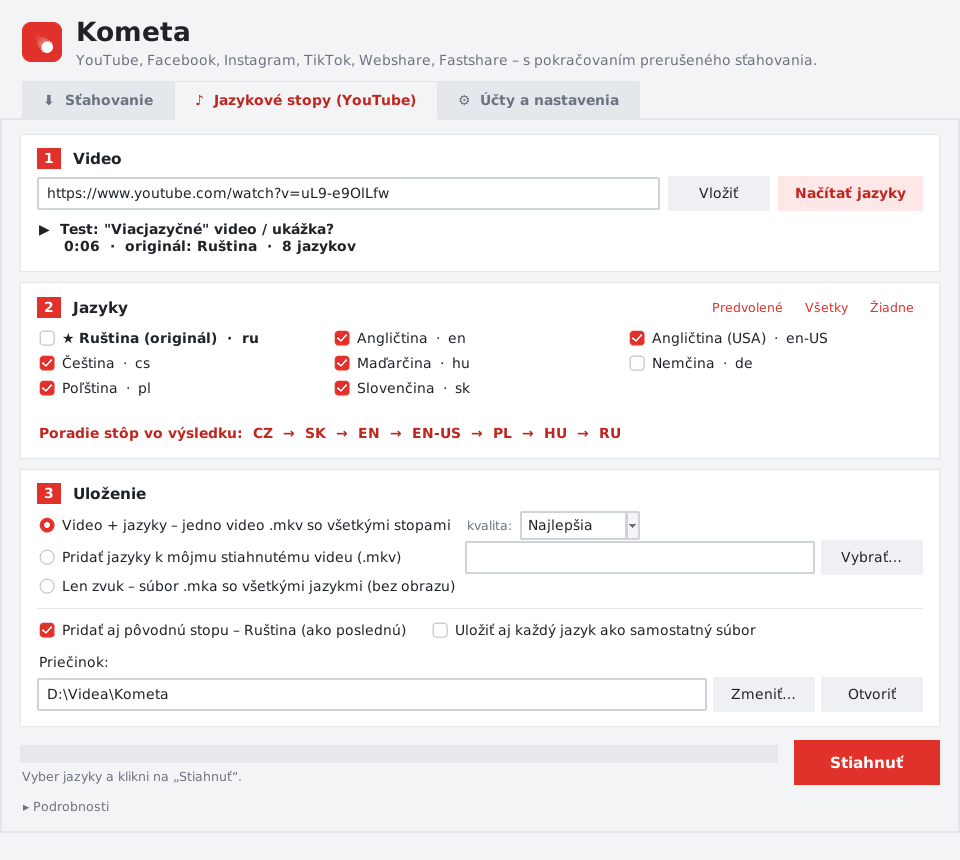
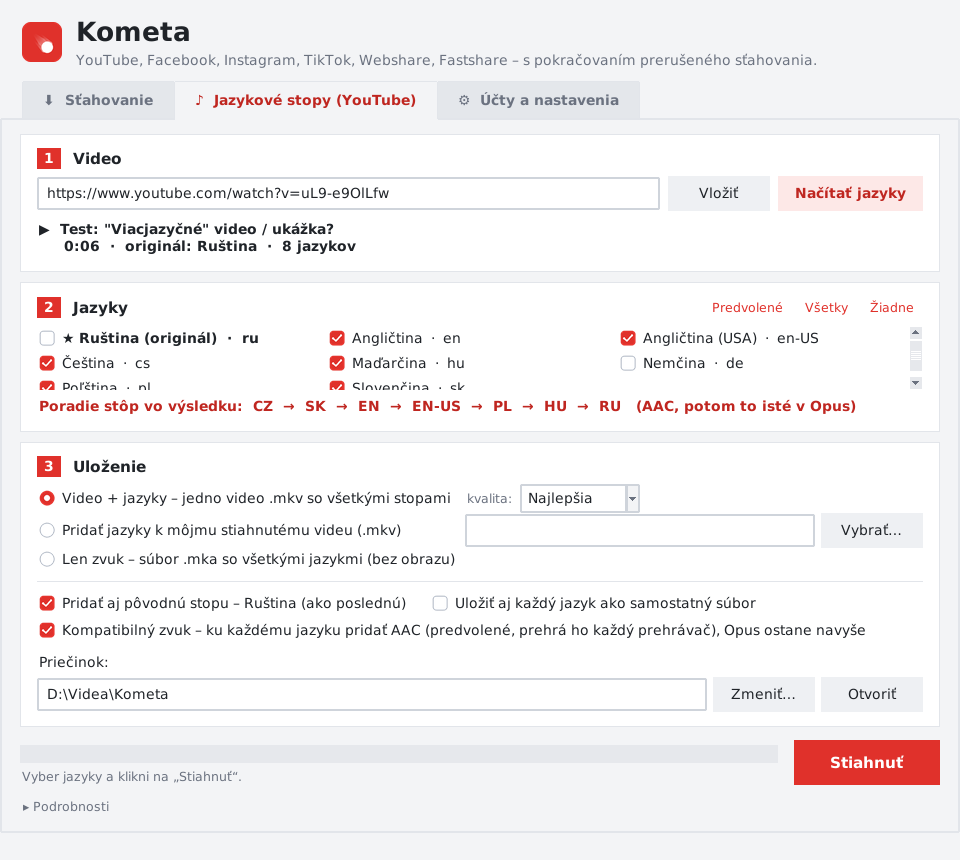
Kometa 1.3: kompatibilný zvuk – AAC (predvolená) + Opus v jednom MKV, dá sa vypnúť
- Jazykové stopy: ku každému jazyku AAC stopa (bez prevodu, ak ju YouTube ponúka,
  inak prevod z Opus cez FFmpeg), za nimi tie isté jazyky v Opus
- Prepínač v karte Jazykové stopy aj v Nastaveniach; platí aj pre bežné sťahovanie z YouTube
- CLI: py app.py jazyky ODKAZ --zvuk oboje|aac|opus

Claude-Session: https://claude.ai/code/session_017Q8iHM1R7hGANfK1WZZvSf

diff --git a/kometa/jazyky.py b/kometa/jazyky.py
@@ -112,6 +112,14 @@ def _format_rank(f: dict):
     )
 
 
+def _is_aac(f: dict) -> bool:
+    return str(f.get("acodec", "")).startswith("mp4a") or (f.get("ext") == "m4a")
+
+
+AUDIO_MODES = {"oboje": "AAC + Opus v jednom súbore (odporúčané)", "aac": "Len AAC – prehrá každý prehrávač",
+               "opus": "Len Opus – najvyššia kvalita"}
+
+
 def _clean_display(note: str) -> str:
     first = (note or "").split(",")[0]
     first = re.sub(r"\((default|original)\)|\boriginal\b", "", first, flags=re.I)
@@ -128,6 +136,8 @@ def list_audio_tracks(info: dict) -> list[dict]:
     tracks = []
     for code, fmts in groups.items():
         best = max(fmts, key=_format_rank)
+        aac = [x for x in fmts if _is_aac(x)]
+        opus = [x for x in fmts if str(x.get("acodec", "")).startswith("opus")]
         original = any(
             x.get("language_preference") == 10 or "original" in (x.get("format_note") or "").lower()
             for x in fmts
@@ -136,6 +146,8 @@ def list_audio_tracks(info: dict) -> list[dict]:
             "code": code,
             "label": lang_label(code, _clean_display(best.get("format_note"))),
             "format": best,
+            "aac": max(aac, key=_format_rank) if aac else None,     # prehrá každý prehrávač
+            "opus": max(opus, key=_format_rank) if opus else None,  # vyššia kvalita
             "original": original,
             "_pref": max((x.get("language_preference") or -1) for x in fmts),
         })
@@ -264,6 +276,16 @@ def mux(out_path: Path, inputs: list[dict], title: str) -> None:
         raise RuntimeError("FFmpeg nedokázal spojiť stopy:\n" + (r.stderr or "").strip()[-1500:])
 
 
+def to_aac(src: Path, dest: Path, bitrate: str = "192k") -> Path:
+    """Prevedie zvuk do AAC (prehrá ho každý prehrávač) – len keď ho zdroj neponúka priamo."""
+    r = subprocess.run([_ffmpeg(), "-hide_banner", "-loglevel", "error", "-y", "-i", str(src), "-vn", "-map", "0:a:0",
+                        "-c:a", "aac", "-b:a", bitrate, str(dest)],
+                       capture_output=True, text=True, encoding="utf-8", errors="replace", **NO_WINDOW)
+    if r.returncode != 0 or not dest.exists():
+        raise RuntimeError("Prevod zvuku do AAC zlyhal:\n" + (r.stderr or "").strip()[-800:])
+    return dest
+
+
 def _export_single(src: Path, dest_stem: Path) -> Path:
     """Samostatná stopa: opus z webm prebalí do .opus (bez prekódovania), ostatné nechá."""
     if src.suffix.lower() == ".webm":
@@ -302,12 +324,15 @@ def run_job(job: dict, log=print, progress=lambda frac, text: None, cancel: thre
     if existing is not None and not existing.is_file():
         raise RuntimeError("Vybrané video na disku neexistuje.")
 
-    total_steps = len(tracks) + (1 if mode == "video" else 0) + 1
+    audio_mode = job.get("audio_mode") or "oboje"
+    if audio_mode not in AUDIO_MODES:
+        audio_mode = "oboje"
+    total_steps = len(tracks) * (2 if audio_mode == "oboje" else 1) + (1 if mode == "video" else 0) + 1
     state = {"step": 0, "text": ""}
 
     def sub(frac):
         base = state["step"] + (frac if frac is not None else 0)
-        progress(base / total_steps, state["text"])
+        progress(min(base / total_steps, 1.0), state["text"])
 
     tmp = Path(tempfile.mkdtemp(prefix=".ytj_tmp_", dir=outdir))
     try:
@@ -321,16 +346,36 @@ def run_job(job: dict, log=print, progress=lambda frac, text: None, cancel: thre
             video_path = download_format(info, fmt, tmp / "video", log, sub, cancel)
             state["step"] += 1
 
-        files = []
+        def fetch(t, fmt, n, kind):
+            stem = tmp / ("a%02d_%s_%s" % (n, re.sub(r"[^\w-]", "_", t["code"] or "orig"), kind))
+            return download_format(info, fmt["format_id"], stem, log, sub, cancel)
+
+        files = []        # hlavné stopy (AAC alebo Opus podľa režimu) – v poradí jazykov
+        extra = []        # druhé stopy (Opus pri režime „oboje“)
         for n, t in enumerate(tracks, 1):
             if cancel.is_set():
                 raise Cancelled()
             state["text"] = f"Sťahujem: {t['label']} ({n}/{len(tracks)})…"
             log(f"⬇ {t['label']}  [{t['code'] or '—'}]")
             sub(0)
-            stem = tmp / ("a%02d_%s" % (n, re.sub(r"[^\w-]", "_", t["code"] or "orig")))
-            files.append((t, download_format(info, t["format"]["format_id"], stem, log, sub, cancel)))
+            aac_fmt, opus_fmt = t.get("aac"), t.get("opus") or t["format"]
+            if audio_mode == "opus":
+                files.append((t, fetch(t, opus_fmt, n, "opus"), "opus"))
+                state["step"] += 1
+                continue
+            opus_path = None
+            if aac_fmt:
+                main = fetch(t, aac_fmt, n, "aac")
+            else:  # zdroj AAC neponúka → prevedieme z Opus
+                opus_path = fetch(t, opus_fmt, n, "opus")
+                log(f"↻ Prevádzam {t['label']} do AAC (zdroj ho neponúka)…")
+                main = to_aac(opus_path, tmp / ("a%02d_aac.m4a" % n))
+            files.append((t, main, "aac"))
             state["step"] += 1
+            if audio_mode == "oboje" and t.get("opus"):
+                sub(0)
+                extra.append((t, opus_path or fetch(t, t["opus"], n, "opus"), "opus"))
+            state["step"] += 1 if audio_mode == "oboje" else 0
 
         if cancel.is_set():
             raise Cancelled()
@@ -338,7 +383,7 @@ def run_job(job: dict, log=print, progress=lambda frac, text: None, cancel: thre
         log("⇒ Spájam stopy…")
         sub(0)
 
-        codes = [t["code"] or "orig" for t, _ in files]
+        codes = [t["code"] or "orig" for t, _, _ in files]
         tag = "+".join(codes) if len(codes) <= 8 else f"{len(codes)} jazykov"
         inputs: list[dict] = []
         if mode == "existing":
@@ -351,13 +396,15 @@ def run_job(job: dict, log=print, progress=lambda frac, text: None, cancel: thre
             out = unique_path(outdir / f"{safe_name(title)} [{tag}].mkv")
         else:
             out = unique_path(outdir / f"{safe_name(title)} [{tag}].mka")
-        for t, p in files:
+        # najprv AAC v poradí jazykov (prvá = predvolená, prehrá ju každý prehrávač), potom tie isté jazyky v Opus
+        for t, p, codec in files + extra:
+            suffix = " – Opus (vyššia kvalita)" if (codec == "opus" and audio_mode == "oboje") else ""
             inputs.append({"path": p, "kind": "audio", "lang3": iso3(t["code"]),
-                           "title": t["label"] + (" – originál" if t["original"] else "")})
+                           "title": t["label"] + (" – originál" if t["original"] else "") + suffix})
         mux(out, inputs, title)
 
         if job.get("keep_separate"):
-            for t, p in files:
+            for t, p, _ in files:
                 single = _export_single(p, outdir / f"{safe_name(title)} [{t['code'] or 'orig'}]")
                 log(f"   ↳ {single.name}")
 
@@ -393,6 +440,9 @@ def cli(argv: list[str]) -> int:
     ap.add_argument("--bez-originalu", action="store_true", help="nepridá pôvodnú stopu (inak je posledná)")
     ap.add_argument("--samostatne", action="store_true", help="uloží aj každý jazyk ako samostatný súbor")
     ap.add_argument("--max-vyska", type=int, metavar="PX", help="max. výška videa, napr. 1080")
+    ap.add_argument("--zvuk", choices=list(AUDIO_MODES), default=None,
+                    help="oboje = AAC (predvolená, prehrá každý prehrávač) + Opus; aac = len AAC; opus = len Opus "
+                         "(predvolené podľa nastavenia, inak oboje)")
     a = ap.parse_args(argv)
 
     deps = check_dependencies()
@@ -420,7 +470,8 @@ def cli(argv: list[str]) -> int:
     mode = "existing" if a.k_videu else ("audio" if a.len_zvuk else "video")
     job = {"info": info, "tracks": chosen, "outdir": a.vystup or cfg["outdir"], "mode": mode,
            "existing_path": a.k_videu, "include_original": not a.bez_originalu,
-           "keep_separate": a.samostatne, "max_height": a.max_vyska}
+           "keep_separate": a.samostatne, "max_height": a.max_vyska,
+           "audio_mode": a.zvuk or cfg.get("audio_mode", "oboje")}
 
     def progress(frac, text):
         bar = "█" * int(frac * 30)

diff --git a/kometa/gui.py b/kometa/gui.py
@@ -303,10 +303,13 @@ class LanguagesTab:
         self.sep_var = tk.BooleanVar(value=self.cfg.get("keep_separate", False))
         ttk.Checkbutton(opts, text="Uložiť aj každý jazyk ako samostatný súbor",
                         variable=self.sep_var).pack(side="left", padx=(22, 0))
+        ttk.Checkbutton(b3, text="Kompatibilný zvuk – ku každému jazyku pridať AAC (predvolené, prehrá ho každý "
+                                 "prehrávač), Opus ostane navyše", variable=self.win.compat_var,
+                        command=self._set_go_state).grid(row=5, column=0, columnspan=4, sticky="w", pady=(4, 0))
 
-        ttk.Label(b3, text="Priečinok:", style="Card.TLabel").grid(row=5, column=0, sticky="w", pady=(10, 0))
+        ttk.Label(b3, text="Priečinok:", style="Card.TLabel").grid(row=6, column=0, sticky="w", pady=(10, 0))
         dbox = ttk.Frame(b3, style="Card.TFrame")
-        dbox.grid(row=6, column=0, columnspan=4, sticky="ew", pady=(4, 0))
+        dbox.grid(row=7, column=0, columnspan=4, sticky="ew", pady=(4, 0))
         self.outdir_var = self.win.outdir_var
         self.outdir_entry = ttk.Entry(dbox, textvariable=self.outdir_var)
         self.outdir_entry.pack(side="left", fill="x", expand=True)
@@ -495,6 +498,7 @@ class LanguagesTab:
         job = {"info": self.info, "tracks": tracks, "outdir": outdir, "mode": mode,
                "existing_path": self.existing_var.get().strip(), "include_original": self.orig_var.get(),
                "keep_separate": self.sep_var.get(),
+               "audio_mode": "oboje" if self.win.compat_var.get() else "opus",
                "max_height": int(q[:-1]) if q.endswith("p") and q[:-1].isdigit() else None}
         self.cancel = threading.Event()
         self._busy(True)
@@ -550,8 +554,10 @@ class LanguagesTab:
         if self.orig_var.get() and orig and orig not in order:
             order.append(orig)
         short = lambda t: {"cs": "CZ"}.get(t["code"].lower(), (t["code"] or "orig").upper())
-        self.order_var.set("Poradie stôp vo výsledku:  " + "  →  ".join(short(t) for t in order) if order
-                           else "Nie je vybraný žiadny jazyk.")
+        text = "Poradie stôp vo výsledku:  " + "  →  ".join(short(t) for t in order)
+        if order and self.win.compat_var.get():
+            text += "   (AAC, potom to isté v Opus)"
+        self.order_var.set(text if order else "Nie je vybraný žiadny jazyk.")
 
     def _set_go_state(self):
         self._update_order()
@@ -1339,6 +1345,8 @@ class AccountsTab:
         sp2.bind("<FocusOut>", lambda e: self._save_settings())
         ttk.Label(r, text="(rýchlejšie veľké súbory a streamy)", style="Muted.Card.TLabel").pack(side="left")
 
+        ttk.Checkbutton(body, text="Kompatibilný zvuk vo videách – AAC (predvolené, prehrá každý prehrávač) + Opus "
+                                   "v jednom MKV", variable=self.win.compat_var).pack(anchor="w", pady=(8, 0))
         self.auto_var = tk.BooleanVar(value=bool(self.cfg.get("autoresume", True)))
         ttk.Checkbutton(body, text="Po spustení programu automaticky pokračovať v nedokončených sťahovaniach",
                         variable=self.auto_var, command=self._save_settings).pack(anchor="w", pady=(8, 0))
@@ -1494,6 +1502,8 @@ class MainWindow:
                                 log=lambda m: None)
         self.outdir_var = tk.StringVar(value=self.cfg.get("outdir") or str(default_outdir()))
         self.outdir_var.trace_add("write", lambda *_: self._outdir_changed())
+        self.compat_var = tk.BooleanVar(value=self.cfg.get("audio_mode", "oboje") != "opus")
+        self.compat_var.trace_add("write", lambda *_: self._compat_changed())
 
         self._build()
         self._center(960, 860)
@@ -1545,6 +1555,13 @@ class MainWindow:
     def set_status(self, text: str):
         self.status_var.set(text)
         self.root.after(6000, lambda: self.status_var.get() == text and self.status_var.set(""))
+
+    def _compat_changed(self):
+        self.cfg["audio_mode"] = "oboje" if self.compat_var.get() else "opus"
+        save_config(self.cfg)
+        apply_settings(self.cfg)
+        if hasattr(self, "languages"):
+            self.languages._update_order()
 
     def _outdir_changed(self):
         self.cfg["outdir"] = self.outdir_var.get().strip()

diff --git a/kometa/common.py b/kometa/common.py
@@ -23,6 +23,7 @@ USER_AGENT = ("Mozilla/5.0 (Windows NT 10.0; Win64; x64) AppleWebKit/537.36 "
 
 # Ďalšie voľby pre yt-dlp (napr. cookies z prehliadača); nastavuje ich apply_settings().
 EXTRA_YDL_OPTS: dict = {}
+AUDIO_MODE = "oboje"   # zvuk vo videách: „oboje“ (AAC + Opus), „aac“, „opus“ – nastavuje apply_settings()
 
 
 class Cancelled(Exception):
@@ -216,6 +217,7 @@ DEFAULT_CONFIG = {
     "langs": DEFAULT_LANGS,
     "mode": "video",
     "include_original": True,
+    "audio_mode": "oboje",        # oboje = AAC (predvolená) + Opus, aac, opus
     "keep_separate": False,
     "max_height": "Najlepšia",
     # karta Sťahovanie
@@ -257,6 +259,8 @@ def save_config(cfg: dict) -> None:
 
 def apply_settings(cfg: dict) -> None:
     """Premietne nastavenia do yt-dlp (cookies z prehliadača pre Instagram/Facebook)."""
+    global AUDIO_MODE
+    AUDIO_MODE = cfg.get("audio_mode") if cfg.get("audio_mode") in ("oboje", "aac", "opus") else "oboje"
     EXTRA_YDL_OPTS.pop("cookiesfrombrowser", None)
     # HLS/DASH: viac kúskov naraz (rovnaké nastavenie ako „spojenia na súbor“)
     EXTRA_YDL_OPTS["concurrent_fragment_downloads"] = max(1, min(16, int(cfg.get("connections") or 4)))

diff --git a/kometa/media.py b/kometa/media.py
@@ -11,6 +11,7 @@ import threading
 from pathlib import Path
 from urllib.parse import urlparse
 
+from . import common
 from .common import Paused, ydl_opts
 
 # kľúč: (popis, voľby pre yt-dlp)
@@ -69,6 +70,16 @@ def download_media(url: str, outdir: Path, preset: str = "video", *, on_progress
     outdir.mkdir(parents=True, exist_ok=True)
     _, preset_opts = PRESETS.get(preset, PRESETS["video"])
     preset_opts = dict(preset_opts)
+    if preset in ("video", "1080", "720"):
+        vsel = preset_opts["format"].split("+")[0]
+        if common.AUDIO_MODE == "oboje":
+            # AAC (prehrá každý prehrávač, prvá = predvolená) + Opus (vyššia kvalita) v jednom MKV
+            preset_opts["format"] = (f"{vsel}+ba[acodec^=mp4a]+ba[acodec^=opus]/{vsel}+ba[acodec^=mp4a]/"
+                                     + preset_opts["format"])
+            preset_opts["allow_multiple_audio_streams"] = True
+            preset_opts["merge_output_format"] = "mkv"
+        elif common.AUDIO_MODE == "aac":
+            preset_opts["format"] = f"{vsel}+ba[acodec^=mp4a]/" + preset_opts["format"]
     if source_name(url) == "TikTok":
         preset_opts["format"] = _no_watermark(preset_opts["format"])
 

diff --git a/kometa/__init__.py b/kometa/__init__.py
@@ -1,3 +1,3 @@
 """Kometa – sťahovanie videí a súborov s pokračovaním."""
 
-__version__ = "1.2.0"
+__version__ = "1.3.0"

diff --git a/README.md b/README.md
@@ -61,10 +61,17 @@ python app.py
 ### Karta Jazykové stopy (YouTube)
 Pre videá, ktoré majú na YouTube viac zvukových stôp (preklad či dabing). Vlož odkaz, klikni na **Načítať jazyky** a zaškrtni jazyky. Pod zoznamom vidíš výsledné poradie stôp. Vznikne jedno `.mkv` video; jazyk prepneš v prehrávači (VLC: *Zvuk → Zvuková stopa*). Stopy sa dajú pridať aj k videu, ktoré už máš stiahnuté.
 
+**Kompatibilný zvuk** (prepínač, predvolene zapnutý): YouTube dáva preklady najmä vo formáte Opus, ktorý niektoré televízory, autorádiá a staršie prehrávače nevedia prehrať. So zapnutým prepínačom má každý jazyk dve stopy:
+1. **AAC** – prehrá ho každý prehrávač; tieto stopy idú prvé v poradí CZ → SK → … a prvá je predvolená. Ak YouTube AAC pre daný jazyk neponúka, Kometa ho prevedie z Opus (FFmpeg, 192 kb/s).
+2. **Opus** – tie isté jazyky v lepšej kvalite, s názvom „Opus (vyššia kvalita)“. Lepší prehrávač (VLC, mpv, Kodi) si ich vyberie v menu zvuku.
+
+Keď prepínač vypneš, vo výsledku budú len stopy Opus (menší súbor). Rovnaký prepínač je aj v karte *Účty a nastavenia* a platí pre bežné sťahovanie videí z YouTube.
+
 ### Karta Účty a nastavenia
 - **Webshare / Fastshare:** zadaj meno a heslo a klikni na **Prihlásiť**. Heslo sa uloží do *Správcu poverení Windows*, nikam inam sa neposiela. Na rýchle sťahovanie treba **VIP (Webshare)** alebo **kredit (Fastshare)**. Kometa neobchádza obmedzenia bezplatných účtov.
 - **Stránky po prihlásení** (Instagram, Facebook, platené kurzy, súkromné Vimeo): prihlás sa v prehliadači a tu ho vyber – Kometa použije jeho prihlásenie (cookies) pri sťahovaní aj pri prehľadávaní stránok. Najspoľahlivejší je **Firefox**; Chrome a Edge treba pri sťahovaní zavrieť.
 - **Súčasne sťahovať** (počet súborov naraz) a **Spojenia na jeden súbor** (1–16, predvolene 4).
+- **Kompatibilný zvuk vo videách:** AAC (predvolená stopa) + Opus v jednom `.mkv`. Dá sa vypnúť.
 - Automatické pokračovanie nedokončených sťahovaní po spustení.
 
 ## Ako funguje pokračovanie sťahovania
@@ -78,6 +85,7 @@ py app.py ODKAZ [ODKAZ …] [-f video|mp4|1080|720|mp3|audio] [-o PRIEČINOK]
 py app.py jazyky ODKAZ                         # video + CZ, SK, EN, EN-US, PL, HU → .mkv
 py app.py jazyky ODKAZ --zoznam                # vypíše dostupné jazyky
 py app.py jazyky ODKAZ -j cs sk en -o "D:\Videa"
+py app.py jazyky ODKAZ --zvuk opus             # bez AAC stôp (oboje | aac | opus)
 py app.py jazyky ODKAZ --k-videu "moje.mp4"    # pridá stopy k stiahnutému videu
 ```
 
